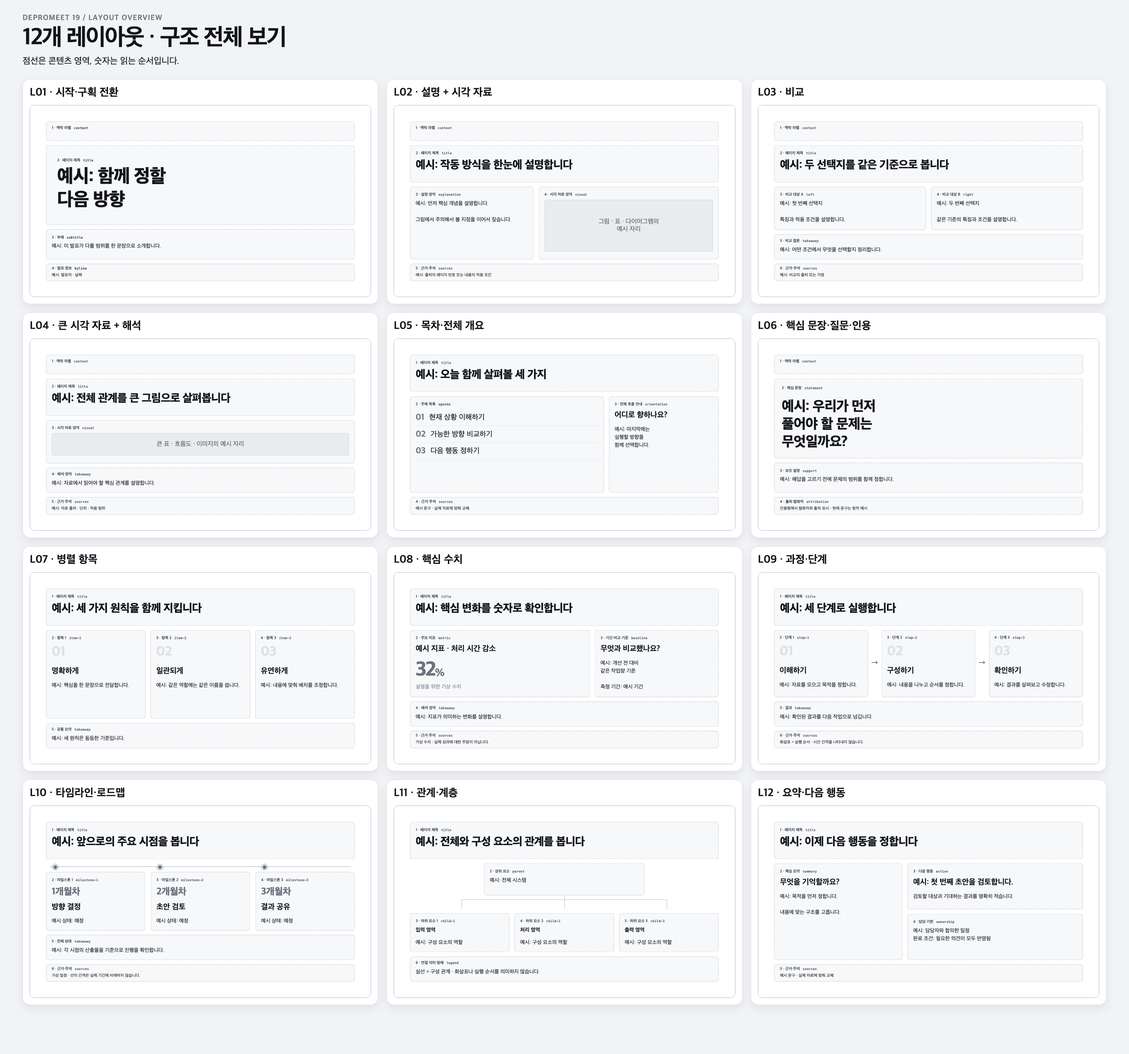
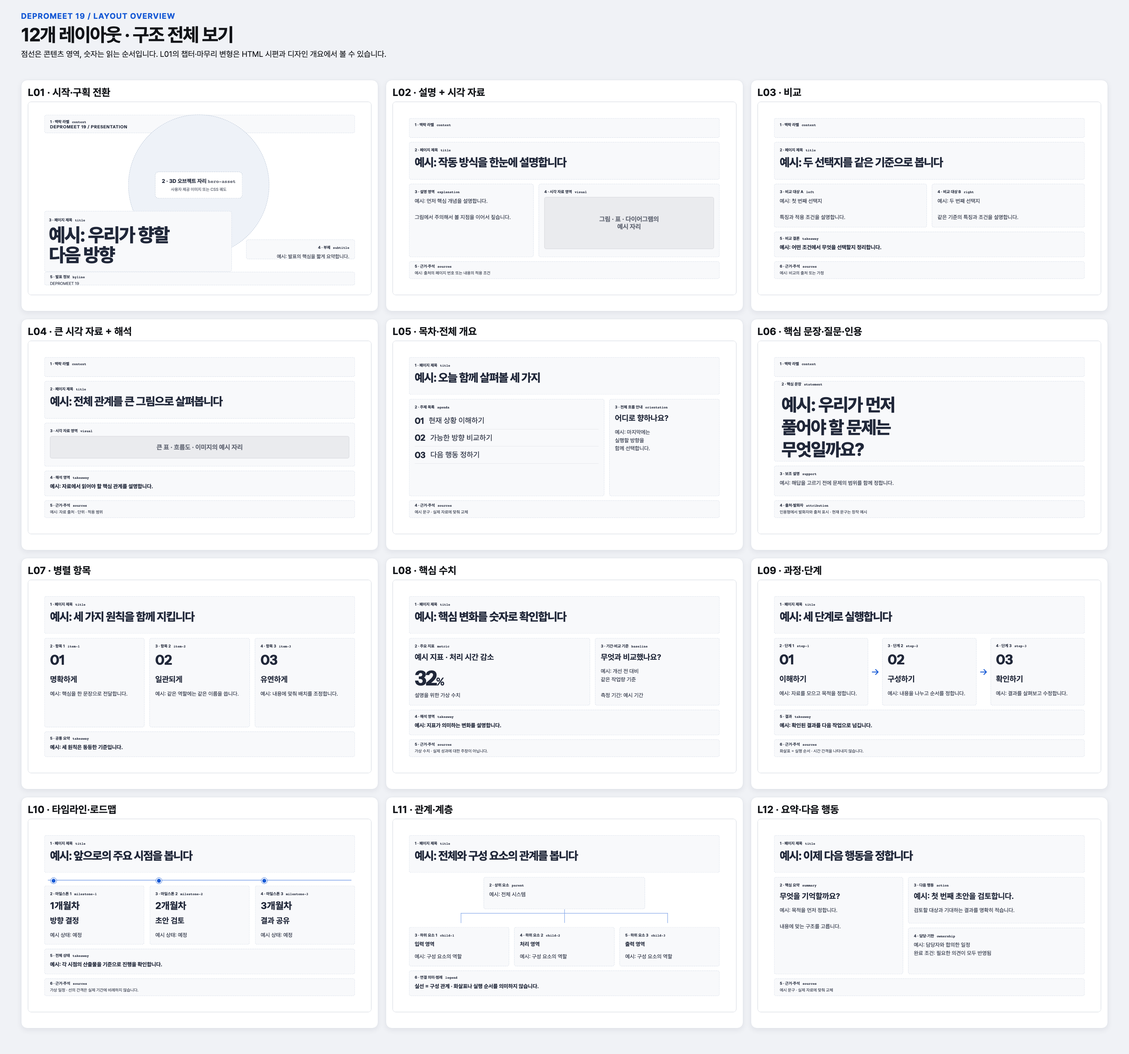
feat: 디프만 19기 슬라이드 프로필 재작성 (#7)
* feat: refresh 19th slide profile and bundle HTML to Figma

* fix: preserve visible content inside zero-box wrappers

* docs: restore updated slide profile overviews

* docs: show supplied 3D art in profile cover preview

* docs: clarify 3D preview asset scope

* feat: extend 19th profile gallery to 14 specimens

diff --git a/plugins/depromeet-plugin/skills/create-slides/profiles/depromeet_19/layout-skeleton.html b/plugins/depromeet-plugin/skills/create-slides/profiles/depromeet_19/layout-skeleton.html
@@ -8,9 +8,9 @@
 </head>
 <body>
   <header>
-    <div class="eyebrow">DEPROMEET 19 · 12 LAYOUT FAMILIES · 구조 검토용</div>
-    <h1>Depromeet 19 · 12개 레이아웃 구조</h1>
-    <p class="intro">발표 내용의 관계에 따라 고르는 12개 기본형입니다. 점선은 영역의 경계, 번호는 읽는 순서입니다. 문구·수치·일정은 모두 구조를 보여주기 위한 예시이며, 비율과 명칭은 함께 조정할 수 있습니다.</p>
+    <div class="eyebrow">DEPROMEET 19 · 12 LAYOUT FAMILIES · 디자인 검토용</div>
+    <h1>표지는 짙게, 본문은 밝게</h1>
+    <p class="intro">B안의 중앙 오브젝트 표지를 기준으로 한 12개 기본형과 표지·챕터·마무리 변형입니다. 전환 장면은 별자리와 짙은 남색, 설명과 도표는 흰색을 사용합니다. 문구와 수치는 구조를 보여주기 위한 예시이며, 점선과 영역 이름은 검토용으로만 표시합니다.</p>
 <nav aria-label="레이아웃 목록"><a href="#L01" data-pick="0">L01 · 시작·구획 전환</a><a href="#L02" data-pick="1">L02 · 설명 + 시각 자료</a><a href="#L03" data-pick="2">L03 · 비교</a><a href="#L04" data-pick="3">L04 · 큰 시각 자료 + 해석</a><a href="#L05" data-pick="4">L05 · 목차·전체 개요</a><a href="#L06" data-pick="5">L06 · 핵심 문장·질문·인용</a><a href="#L07" data-pick="6">L07 · 병렬 항목</a><a href="#L08" data-pick="7">L08 · 핵심 수치</a><a href="#L09" data-pick="8">L09 · 과정·단계</a><a href="#L10" data-pick="9">L10 · 타임라인·로드맵</a><a href="#L11" data-pick="10">L11 · 관계·계층</a><a href="#L12" data-pick="11">L12 · 요약·다음 행동</a></nav><div class="controls"><button id="single" aria-pressed="true">한 장씩 보기</button><button id="all" aria-pressed="false">전체 보기</button><button id="prev" aria-label="이전 레이아웃">← 이전</button><span id="position" aria-live="polite"></span><button id="next" aria-label="다음 레이아웃">다음 →</button></div>
     <p class="review-note">이름과 배치를 확인한 뒤 대화에서 의견을 남겨주세요. 예: “L02의 설명 영역을 넓혀줘.” 모바일에서는 아래의 영역 설명을 함께 확인하고, 전체 비율은 가로 화면에서 확인하세요.</p>
     <noscript><p>레이아웃 축소 표시는 JavaScript가 필요합니다. JavaScript를 켜거나 데스크톱 브라우저에서 열어주세요. 영역 설명은 아래에서 읽을 수 있습니다.</p></noscript>
@@ -19,18 +19,43 @@
     <!-- Select only the needed layout families. Adapt regions to the actual brief. -->
     <section class="layout-card" id="L01" data-layout-id="L01" aria-labelledby="L01-heading">
       <div class="layout-heading"><h2 id="L01-heading">L01 · 시작·구획 전환</h2><span>1920 × 1080 · 16:9</span></div>
-      <p class="layout-description">발표의 주제와 맥락을 소개하는 구성입니다. 시선은 위에서 아래로 이동합니다.</p>
-      <div class="preview-window"><div class="layout-stage" aria-label="시작형 레이아웃 예시">
-        <div class="region context" data-region-id="context"><span class="region-label">1 · 맥락 라벨 <code>context</code></span></div>
-        <div class="region opener-title" data-region-id="title"><span class="region-label">2 · 페이지 제목 <code>title</code></span><p class="sample-title">예시: 함께 정할<br>다음 방향</p></div>
-        <div class="region subtitle" data-region-id="subtitle"><span class="region-label">3 · 부제 <code>subtitle</code></span><p>예시: 이 발표가 다룰 범위를 한 문장으로 소개합니다.</p></div>
-        <div class="region sources" data-region-id="byline"><span class="region-label">4 · 발표 정보 <code>byline</code></span><p>예시: 발표자 · 날짜</p></div>
+      <p class="layout-description">B안 표지는 중앙 3D 오브젝트와 왼쪽 아래 제목을 사용합니다. 챕터는 오브젝트를 오른쪽으로 옮기고, 마무리는 오브젝트 없이 결론에 집중합니다. 이미지가 제공되지 않으면 CSS 궤도 장식을 사용합니다.</p>
+      <div class="preview-window"><div class="layout-stage cover-stage" aria-label="B안 발표 표지 예시">
+        <div class="region context" data-region-id="context"><span class="region-label">1 · 맥락 라벨 <code>context</code></span><p>DEPROMEET 19 / PRESENTATION</p></div>
+        <div class="cover-halo" aria-hidden="true"></div>
+        <div class="mode-kicker" aria-hidden="true">ORBIT BEYOND BOUNDARIES</div>
+        <div class="hero-art" data-region-id="hero-asset" role="img" aria-label="사용자가 제공할 3D 오브젝트 자리. 이미지가 없으면 궤도 장식 사용"><span>2 · 3D 오브젝트 자리 <code>hero-asset</code><br><small>사용자 제공 이미지 또는 CSS 궤도</small></span></div>
+        <div class="title-shade" aria-hidden="true"></div>
+        <div class="region opener-title" data-region-id="title"><span class="region-label">3 · 페이지 제목 <code>title</code></span><p class="sample-title">예시: 우리가 향할<br>다음 방향</p></div>
+        <div class="region subtitle" data-region-id="subtitle"><span class="region-label">4 · 부제 <code>subtitle</code></span><p>예시: 발표의 핵심을 짧게 요약합니다.</p></div>
+        <div class="region sources" data-region-id="byline"><span class="region-label">5 · 발표 정보 <code>byline</code></span><p>DEPROMEET 19</p><span class="page-marker">00 / 14</span></div>
       </div></div>
+      <p class="specimen-label">같은 L01의 챕터 변형</p>
+      <div class="preview-window"><div class="layout-stage chapter-stage" aria-label="챕터 표지 예시">
+        <div class="region context" data-region-id="context"><span class="region-label">1 · 맥락 라벨 <code>context</code></span><p>DEPROMEET 19 / CHAPTER 01</p></div>
+        <div class="mode-kicker" aria-hidden="true">01 / DISCOVER</div>
+        <div class="hero-art" data-region-id="hero-asset" role="img" aria-label="오른쪽에 배치할 사용자 제공 3D 오브젝트 자리"><span>2 · 3D 오브젝트 자리 <code>hero-asset</code></span></div>
+        <div class="region opener-title" data-region-id="title"><span class="region-label">3 · 챕터 제목 <code>title</code></span><p class="sample-title">예시: 새로운 길을<br>발견하다.</p></div>
+        <div class="chapter-beam" aria-hidden="true"></div>
+        <div class="region subtitle" data-region-id="subtitle"><span class="region-label">4 · 부제 <code>subtitle</code></span><p>예시: 문제를 찾고, 함께 방향을 정합니다.</p></div>
+        <div class="region sources" data-region-id="byline"><span class="region-label">5 · 발표 정보 <code>byline</code></span><p>DEPROMEET 19</p><span class="page-marker">01 / 14</span></div>
+      </div></div>
+      <p class="specimen-label">같은 L01의 마무리 변형</p>
+      <div class="preview-window"><div class="layout-stage closing-stage" aria-label="마무리 페이지 예시">
+        <div class="region context" data-region-id="context"><span class="region-label">1 · 맥락 라벨 <code>context</code></span><p>DEPROMEET 19 / CLOSING</p></div>
+        <div class="closing-orbit" aria-hidden="true"></div>
+        <div class="mode-kicker" aria-hidden="true">KEEP MOVING</div>
+        <div class="region opener-title" data-region-id="title"><span class="region-label">2 · 마무리 문장 <code>title</code></span><p class="sample-title">예시: 다음 방향을<br>함께 만들어갑니다.</p></div>
+        <div class="region subtitle" data-region-id="subtitle"><span class="region-label">3 · 보조 문장 <code>subtitle</code></span><p>예시: 질문에서 시작해, 실험으로 이어갑니다.</p></div>
+        <div class="region sources" data-region-id="byline"><span class="region-label">4 · 발표 정보 <code>byline</code></span><p>DEPROMEET 19</p><span class="page-marker">13 / 14</span></div>
+      </div></div>
+      <p class="variant">챕터에서는 3D 오브젝트를 오른쪽으로 옮겨 제목을 왼쪽에 두고, 마무리에서는 오브젝트를 생략해 결론을 크게 표시합니다.</p>
       <dl class="legend">
         <div data-for-region="context"><dt>1 · 맥락 라벨 <code>context</code></dt><dd>상단 전체 너비. 행사나 발표의 큰 주제를 표시합니다.</dd></div>
-        <div data-for-region="title"><dt>2 · 페이지 제목 <code>title</code></dt><dd>중앙의 가장 큰 영역. 발표의 주제나 핵심 메시지를 담습니다.</dd></div>
-        <div data-for-region="subtitle"><dt>3 · 부제 <code>subtitle</code></dt><dd>제목 아래. 목적이나 범위를 짧게 설명합니다.</dd></div>
-        <div data-for-region="byline"><dt>4 · 발표 정보 <code>byline</code></dt><dd>하단. 발표자와 날짜를 담으며 불필요하면 생략합니다.</dd></div>
+        <div data-for-region="hero-asset"><dt>2 · 오브젝트 <code>hero-asset</code></dt><dd>표지는 중앙, 챕터는 오른쪽. 사용자가 제공한 이미지와 사용 범위를 확인한 경우에만 적용합니다. 이미지가 없으면 CSS 장식을 사용합니다.</dd></div>
+        <div data-for-region="title"><dt>3 · 페이지 제목 <code>title</code></dt><dd>표지에서는 왼쪽 아래, 챕터에서는 왼쪽 중앙. 짧고 크게 표시합니다.</dd></div>
+        <div data-for-region="subtitle"><dt>4 · 부제 <code>subtitle</code></dt><dd>제목을 보조하는 한 문장. 본문과 충돌하면 생략할 수 있습니다.</dd></div>
+        <div data-for-region="byline"><dt>5 · 발표 정보 <code>byline</code></dt><dd>하단. 발표자와 날짜를 담으며 불필요하면 생략합니다.</dd></div>
       </dl>
     </section>
     <section class="layout-card" id="L02" data-layout-id="L02" aria-labelledby="L02-heading">
@@ -107,7 +132,7 @@
     const cards=[...document.querySelectorAll('.layout-card')];
     const links=[...document.querySelectorAll('[data-pick]')];
     let selected=Math.max(0,cards.findIndex(c=>c.id===location.hash.slice(1))), all=false;
-    function fitPreviews(){document.querySelectorAll('.preview-window').forEach(p=>{if(p.clientWidth)p.querySelector('.layout-stage').style.transform=`scale(${p.clientWidth/1920})`;});}
+    function fitPreviews(){document.querySelectorAll('.preview-window').forEach(p=>{if(p.clientWidth)p.querySelectorAll('.layout-stage').forEach(s=>s.style.transform=`scale(${p.clientWidth/1920})`);});}
     function render(){
       cards.forEach((c,i)=>c.hidden=!all&&i!==selected);
       links.forEach((a,i)=>a.setAttribute('aria-current',String(i===selected)));

diff --git a/plugins/depromeet-plugin/skills/create-slides/profiles/depromeet_19/style.css b/plugins/depromeet-plugin/skills/create-slides/profiles/depromeet_19/style.css
@@ -141,10 +141,84 @@
 .display-latin { font-family: "Space Grotesk", "Instrument Sans", sans-serif; }
 .slogan-latin { font-family: "Space Mono", monospace; font-style: italic; }
 
-/* The opening specimen shows the profile identity; other families use light pages. */
-#L01 .layout-stage { background: var(--blue-500); }
-#L01 .region { color: var(--white); background: transparent; border-color: var(--white-030); }
-#L01 .region-label, #L01 .region-label code { color: var(--white); }
-#L01 .sources { background: var(--white-010); }
+/* Banner-inspired presentation modes. The gradients and stars are CSS recreations. */
+:root {
+  --space-cover: radial-gradient(ellipse 76% 82% at 50% 81%, #1659d5aa, transparent 75%), linear-gradient(180deg, #0c0e15 0%, #0f1b36 64%, #092455 100%);
+  --space-chapter: radial-gradient(ellipse 70% 42% at 59% 101%, #1459d5b8 0%, #0d377580 40%, transparent 100%), radial-gradient(ellipse 65% 72% at 86% 24%, #134ab070 0%, transparent 70%), linear-gradient(180deg, #0f1422 0%, #0f1b36 56%, #06111f 100%);
+  --content-panel: #F2F4F8;
+  --content-line: #DCE3ED;
+}
+.layout-stage { color: var(--blue-800); background: var(--white); }
+.region { background: var(--content-panel); border-color: var(--blue-200); }
+.region .sample-title { color: var(--blue-800); font-weight: 780; letter-spacing: -.045em; }
+.context, .heading, .takeaway, .sources { background: transparent; border-color: transparent; }
+.context { border-bottom: 1px solid var(--content-line); border-radius: 0; }
+.context .region-label { color: var(--blue-500); }
+.sources { border-top: 1px solid var(--content-line); border-radius: 0; }
+.sources p { color: var(--gray-700); }
+.takeaway p { color: var(--blue-800); font-weight: 750; }
+.visual-placeholder { color: var(--blue-800); background: linear-gradient(135deg, #DCE9FF, #ABC8FA); border-color: var(--blue-200); font-weight: 700; }
+.item-number { color: var(--blue-500); }
+#L05 .explanation { background: #E8F0FF; }
+#L07 .body-row > .region { border-top: 8px solid var(--blue-500); }
+#L08 .layout-stage { background: radial-gradient(circle at 80% 15%, #D9E7FF 0%, transparent 42%), linear-gradient(145deg, #F9FBFF, #E8F0FF); }
+#L08 .body-row > .region:first-child { background: #E8F0FF; }
+#L12 .action-stack .region:first-child { color: var(--white); background: var(--blue-500); border-color: var(--blue-500); }
+#L12 .action-stack .region:first-child .region-label,
+#L12 .action-stack .region:first-child .region-label code { color: var(--white); }
+
+/* L01 cover, chapter, and L06 statement share the dark presentation atmosphere. */
+#L01 .layout-stage, #L06 .layout-stage { color: var(--white); background: var(--space-chapter); }
+#L01 .cover-stage { display: block; background: var(--space-cover); }
+#L01 .chapter-stage { display: block; }
+#L01 .layout-stage::before, #L06 .layout-stage::before { content: ""; position: absolute; z-index: 0; inset: 0; opacity: .37; background-image: radial-gradient(circle, #D8EEFF 0 1px, transparent 1.6px), radial-gradient(circle, #64B6FF 0 1px, transparent 1.5px), radial-gradient(circle, #EFF9FF 0 .65px, transparent 1.3px); background-size: 139px 139px, 197px 173px, 83px 127px; background-position: 19px 11px, 81px 76px, 37px 46px; mask-image: linear-gradient(180deg, #000 0%, #000b 75%, transparent 100%); }
+#L01 .layout-stage::after, #L06 .layout-stage::after { content: ""; position: absolute; z-index: 0; width: 85%; height: 31%; left: 7%; bottom: -19%; border-radius: 50%; background: #0C5FEB; filter: blur(85px); opacity: .5; }
+#L01 .layout-stage > * { position: absolute; z-index: 2; }
+#L01 .mode-kicker { color: #9ACAEF; font: 700 25px "Instrument Sans", "Pretendard", sans-serif; letter-spacing: .14em; }
+#L01 .cover-stage .mode-kicker { top: 259px; left: 90px; }
+#L01 .chapter-stage .mode-kicker { top: 268px; left: 90px; }
+#L01 .closing-stage .mode-kicker { top: 268px; left: 90px; }
+#L01 .region, #L06 .region { color: var(--white); background: transparent; border-color: var(--white-030); }
+#L01 .region-label, #L06 .region-label,
+#L01 .region-label code, #L06 .region-label code { color: #C7E1FF; }
+#L01 .sample-title, #L06 .sample-title { color: var(--white); }
+#L01 .context { top: 72px; left: 90px; right: 90px; height: 102px; border-left: 0; border-right: 0; border-top: 0; border-radius: 0; }
+#L01 .context p { font: 700 24px "Instrument Sans", "Pretendard", sans-serif; letter-spacing: .08em; }
+#L01 .sources { left: 90px; right: 90px; bottom: 54px; height: 75px; border-bottom: 0; border-left: 0; border-right: 0; }
+#L01 .sources p { color: #D0E4FF; }
+#L01 .page-marker { position: absolute; top: 21px; right: 30px; color: #B5D1F3; font: 700 24px "Instrument Sans", "Pretendard", sans-serif; letter-spacing: .08em; }
+#L01 .cover-stage .sources { z-index: 4; }
+#L01 .cover-stage .cover-halo { top: 112px; left: 422px; width: 1076px; height: 1076px; border: 2px solid #79BEFF55; border-radius: 50%; box-shadow: 0 0 0 115px #2480FF08, 0 0 80px #478DFD20; }
+#L01 .cover-stage .title-shade { z-index: 3; inset: 52% 0 0; background: linear-gradient(180deg, transparent 0%, #081831C9 38%, #07152AE8 100%); }
+#L01 .cover-stage .opener-title { z-index: 4; top: 610px; left: 90px; width: 1050px; height: 340px; padding: 20px 24px; }
+#L01 .cover-stage .opener-title .sample-title { font-size: 106px; line-height: 1.06; }
+#L01 .cover-stage .subtitle { z-index: 4; right: 90px; bottom: 200px; width: 610px; height: 110px; text-align: right; }
+#L01 .cover-stage .subtitle p { font-size: 28px; }
+#L01 .chapter-stage .opener-title { z-index: 4; top: 320px; left: 90px; width: 900px; height: 370px; padding: 40px; }
+#L01 .chapter-stage .opener-title .sample-title { font-size: 106px; line-height: 1.08; }
+#L01 .chapter-stage .subtitle { left: 90px; bottom: 180px; width: 810px; height: 120px; }
+#L01 .chapter-stage .chapter-beam { left: 90px; right: 998px; bottom: 302px; height: 2px; background: linear-gradient(90deg, #72C8FF, transparent); box-shadow: 0 0 20px #2DA8FF; }
+#L01 .hero-art { display: flex; align-items: center; justify-content: center; border: 2px solid #74B8FF88; border-radius: 50%; background: radial-gradient(circle at 50% 58%, #2979E688, #1247AA36 42%, transparent 71%); box-shadow: 0 0 0 75px #2480FF08, 0 0 90px #478DFD33; }
+#L01 .hero-art::before { content: "✦"; position: absolute; top: 11%; right: 20%; color: #D6F2FF; font-size: 145px; text-shadow: 0 0 45px #62BDFF; }
+#L01 .hero-art span { display: block; max-width: 500px; padding: 28px 36px; border: 2px dashed #A8D3FFAA; border-radius: 20px; background: #071B3CBB; color: var(--white); text-align: center; font-size: 30px; font-weight: 750; line-height: 1.5; }
+#L01 .hero-art code { color: #B8DBFF; font-size: 26px; }
+#L01 .hero-art small { color: #A9CDFB; font-size: 23px; font-weight: 500; }
+#L01 .cover-stage .hero-art { top: 70px; left: 560px; width: 790px; height: 790px; }
+#L01 .chapter-stage .hero-art { top: 120px; right: 10px; width: 760px; height: 760px; }
+#L01 .has-asset .hero-art { border: 0; background: none; box-shadow: none; }
+#L01 .has-asset .hero-art::before, #L01 .has-asset .hero-art span { display: none; }
+#L01 .has-asset .hero-art img { width: 100%; height: 100%; object-fit: contain; filter: drop-shadow(0 13px 45px #1D8DFF8A); }
+#L01 .cover-stage.has-asset .hero-art { top: -43px; left: 460px; width: 1000px; height: 1000px; }
+#L01 .chapter-stage.has-asset .hero-art { top: -54px; right: -58px; width: 1130px; height: 1130px; }
+#L01 .closing-stage .opener-title { z-index: 4; top: 335px; left: 90px; width: 1170px; height: 340px; padding: 40px; }
+#L01 .closing-stage .opener-title .sample-title { font-size: 106px; line-height: 1.08; }
+#L01 .closing-stage .subtitle { left: 90px; bottom: 180px; width: 1050px; height: 120px; }
+#L01 .closing-stage .closing-orbit { top: 162px; right: 70px; width: 800px; height: 800px; border: 2px solid #72B6FF55; border-radius: 50%; box-shadow: 0 0 0 96px #2480FF08, 0 0 80px #478DFD20; }
+#L01 .closing-stage .closing-orbit::after { content: "✦"; position: absolute; top: 12%; right: 18%; color: #C8E9FF; font-size: 150px; text-shadow: 0 0 50px #45AAFF; }
+#L06 .statement { background: transparent; border-color: transparent; }
+#L06 .statement .sample-title { font-size: 100px; }
+#L06 .statement::after { content: ""; position: absolute; left: 40px; bottom: 54px; width: 600px; height: 2px; background: #6CC4FF; box-shadow: 0 0 18px #63C4FF; }
+#L06 .sources p { color: #C8DCFA; }
+.specimen-label { margin: 18px 0 8px; color: var(--blue-800); font-size: 15px; font-weight: 750; }
 .action-stack { flex: 3; }
 .metric-number, .item-number, .agenda-row b { font-family: "Instrument Sans", "Pretendard", sans-serif; }

diff --git a/plugins/depromeet-plugin/skills/create-slides/profiles/depromeet_19/PROFILE.md b/plugins/depromeet-plugin/skills/create-slides/profiles/depromeet_19/PROFILE.md
@@ -1,12 +1,15 @@
 # depromeet_19 slide profile
 
 This is the bundled visual profile for Depromeet 19th-generation presentations.
-It adapts the supplied 19th-generation design-guide PDFs for browser-based
-slides. The source PDFs and font binaries are not distributed with this skill.
-The guide defines colors and type styles; slide geometry below is an adaptation
-for this skill, not a rule quoted from the guide. The 12 layout families adapt
-the earlier ziweek slide-layouts-12 structural gallery. That repository is not
-a runtime dependency; the profile bundles its own Depromeet-styled specimens.
+It combines the supplied design guide's palette and typography with a
+banner-inspired slide treatment: a dark, central-object opening, dark chapter
+and statement pages, and white content pages. The star field and gradients are
+CSS adaptations, not official design-guide requirements. The source PDFs,
+source banner, reusable 3D image file, and font binaries are not distributed
+with this skill. The design overview includes the user-supplied 3D object in
+its cover and chapter previews only.
+The 12 layout families are structural choices; their example copy is not deck
+content or a factual claim.
 
 ## Files and ownership
 
@@ -14,25 +17,24 @@ a runtime dependency; the profile bundles its own Depromeet-styled specimens.
   stage geometry, spacing, component appearance, and review-only styling.
 - [layout-skeleton.html](layout-skeleton.html) is the browser-visible set of
   layout specimens and region names. It loads `style.css` beside itself.
-- [layout-overview.png](layout-overview.png) shows all 12 structural families
-  together; [design-overview.png](design-overview.png) shows the same families
-  with this profile's visual design and illustrative copy.
-- This file defines when to use those values and how to adapt the source guide
-  to a slide. Do not add profile-specific defaults to the common workflow.
+- [design-overview.png](design-overview.png) shows 14 page specimens: cover,
+  chapter, 11 content families, and closing. It includes the current colors,
+  typography, star field, and rasterized 3D examples.
+- [layout-overview.png](layout-overview.png) shows the 12 layout families'
+  content regions and reading order. Both images are quick references rendered
+  from the HTML specimens, not separate layout specifications.
+- This file defines when to use each visual mode, how to place an optional
+  3D object, and how to adapt the source guide to slides. Do not add
+  profile-specific defaults to the common workflow.
 - [FONTS.md](FONTS.md) identifies the original font distributions and the
   required license, acquisition, and fallback handling for each deck.
 
-The overview images are quick references, not page plans or final slide assets.
-Their wording and numbers are illustrative. Use the HTML skeleton to inspect
-individual regions and confirm the selected layouts for each presentation.
-
-### Layout structure
-
-![All 12 layout families with region boundaries](layout-overview.png)
-
-### Depromeet 19 design example
-
-![The same 12 layouts with Depromeet 19 colors and type](design-overview.png)
+Use the HTML skeleton as the browser-visible source of truth for all 12
+families. L01 shows cover, chapter, and closing specimens. Its CSS orbit is an
+asset-free placeholder; the 3D examples in the overview PNG do not provide a
+reusable image file or permission to reuse the original asset. For a deck with
+an authorized image, replace the `hero-asset` placeholder with an image and
+add `.has-asset` to that stage. The closing specimen omits the image.
 
 When preparing a deck, copy both the skeleton and stylesheet into its output
 directory. Keep their relative link working. Select only the layouts needed,
@@ -48,15 +50,20 @@ PDF: default black/white, seven blues, eleven cool grays, four transparency
 styles, and three gradients. The PDF heading says 36 registered styles, while
 its visible tables enumerate 27. Do not invent the other nine.
 
-- Use `--blue-500` for Depromeet identity and selected emphasis.
-- Use `--blue-800` or `--gray-950` for strong text and dark backgrounds.
-- Use white and `--gray-50`/`--gray-100` for light pages; use `--gray-200`
-  for quiet cards and `--gray-700` for secondary text.
-- Blue pages introduce or divide sections. Light pages carry explanations,
-  diagrams, and numbers. Dark pages can carry screenshots or evidence.
-- The three guide gradients are available as tokens. Use one only when it
-  supports the page hierarchy and keeps text readable; a gradient is not
-  required on every cover.
+- **Cover (`L01`)**: use `--space-cover`, a centered supplied 3D object when
+  authorized, and a large lower-left title. This is the profile's B composition.
+- **Chapter (`L01`)**: use `--space-chapter`, move an available 3D object right,
+  and keep the chapter title left. The closing specimen reuses the dark
+  background without the object so the final statement remains primary.
+- **Content (`L02`–`L05`, `L07`, `L09`–`L12`)**: white is the default stage.
+  Use `--blue-800` for titles, `--blue-500` for selected emphasis, and
+  `--content-panel` for quiet cards. Keep the space texture and 3D image off
+  these information-dense pages. `L08` may use the pale blue tint shown in
+  the specimen when a key number needs stronger separation.
+- **Statement (`L06`)**: reuse the dark chapter background with no object.
+  One sentence carries the page; supporting copy stays secondary.
+- Keep small labels, dividers, and page numbers consistent across modes.
+  The other guide gradients remain available as tokens, not mandatory fills.
 
 Use the palette roles in the CSS instead of pasting hex values into a deck.
 Check contrast in the rendered deck, especially for small labels and muted text.
@@ -76,9 +83,8 @@ Check contrast in the rendered deck, especially for small labels and muted text.
   Verify the rendered font, because a fallback changes line wrapping.
 
 The PDF type sizes describe a design-system specimen, not a 1920×1080 slide.
-The specimen CSS scales important roles for viewing at presentation distance:
-opening title 106 px, standard title 64 px, body about 30 px, and region labels
-about 22 px.
+The HTML specimens use a 106 px opening title, a 64 px standard title, body
+copy around 30 px, and review-only region labels around 22 px.
 Keep Korean line breaks at meaningful phrases. Test the actual deck at full
 presentation size and a smaller desktop viewport.
 
@@ -87,10 +93,14 @@ presentation size and a smaller desktop viewport.
 The profile uses a 1920×1080, 16:9 stage. Start with a 90 px stage margin,
 24–30 px region gaps, and broad text/image regions. These measurements are
 slide-specific choices. Change them in this profile when updating its look.
+The dark specimens use three layers of small stars, a low blue glow, and thin
+header and footer rules. Keep the cover halo and lower title shade, the chapter
+light beam, and the closing orbit when adapting those modes. Kicker text and
+page counters in the specimens are examples; replace them for each deck.
 
 | Layout ID | Use | Main regions |
 | --- | --- | --- |
-| `L01` | Opening or section divider | context, title, subtitle, byline |
+| `L01` | Opening, section divider, or closing | context, hero-asset, title, subtitle, byline |
 | `L02` | Explanation with visual | context, title, explanation, visual, sources |
 | `L03` | Comparison | context, title, left, right, takeaway, sources |
 | `L04` | Large visual with interpretation | context, title, visual, takeaway, sources |
@@ -103,20 +113,24 @@ slide-specific choices. Change them in this profile when updating its look.
 | `L11` | Relationship or hierarchy | title, parent, child-1 through child-3, legend |
 | `L12` | Summary and next action | title, summary, action, ownership, sources |
 
-The former five specimens map to these families: cover and divider use `L01`,
-information cards use `L07` or `L08`, explanation with visual uses `L02`, and
-evidence or example uses `L04` or `L07`. These are starting points; do not force
-content into a mismatched family. Use only layouts needed for the current
-narrative. Preserve the region names and IDs in the confirmed skeleton and page
-plan. Adapt proportions when real content needs room; review a material
-geometry change before final HTML.
+Use only layouts needed for the current narrative. Preserve region names and
+IDs in the confirmed skeleton and page plan. For a cover without a supplied
+image, mark `hero-asset` as intentionally empty in the page plan and use the
+CSS orbit fallback. For a chapter or closing page where the image is omitted,
+keep the title and byline regions; adapt proportions when real copy needs
+room and review material geometry changes before final HTML.
 
 ## Content and assets
 
 - Preserve source conditions, dates, units, denominators, and uncertainty.
 - Rebuild a chart only from verified values and label its units.
-- Use neutral media placeholders until the deck has authorized assets.
+- The 3D banner object is not bundled. When the user supplies an image for a
+  deck, confirm that its use and redistribution in the deliverable are within
+  the intended scope. Record its source path, crop, and alt text in the page
+  plan. Copy it only into that deck's assets. If unavailable or unsuitable,
+  explicitly tell the user that the CSS orbit fallback is being used.
+- Use neutral media placeholders for all other unconfirmed images.
 - Keep source images at a readable aspect ratio and add meaningful alt text.
-- Do not use source-guide screenshots, logos, or private material as deck assets
-  merely because they were supplied for style review.
+- Do not treat a source-guide screenshot, logo, or private file supplied for
+  style review as an automatically distributable asset.
 - Use no motion by default; any added motion must respect reduced motion.

diff --git a/README.md b/README.md
@@ -34,7 +34,7 @@ Depromeet 팀이 Claude Code와 Codex에서 함께 사용할 플러그인을 관
 대체 폰트 사용 사실을 알립니다. 플러그인 자체에는 폰트 파일을 넣지
 않습니다.
 
-발표 목적과 자료를 바탕으로 선택한 프로필의 HTML 슬라이드를 만듭니다. 기본 프로필은 `depromeet_19`이며, 19기 디자인 가이드의 색상·서체와 12가지 공통 레이아웃 구조를 슬라이드에 맞게 적용합니다. 프로필이 스타일과 레이아웃을 소유하고, 공통 스킬은 검토·제작 절차를 담당합니다. 필요한 레이아웃 스켈레톤과 모든 페이지의 실제 문구·배치를 차례로 확인한 뒤 최종 `index.html`을 생성합니다.
+발표 목적과 자료를 바탕으로 선택한 프로필의 HTML 슬라이드를 만듭니다. 기본 프로필 `depromeet_19`는 중앙 오브젝트의 짙은 남색 표지와 챕터, 흰색 본문, 어두운 핵심 문장 페이지를 사용합니다. 19기 디자인 가이드의 색상·서체와 12가지 공통 레이아웃 구조를 적용합니다. 개요 PNG에는 3D 표지 예시가 있지만 재사용 가능한 원본 이미지 파일은 포함되지 않습니다. 실제 덱에는 사용자가 이미지를 제공하고 사용 범위를 확인한 경우에만 적용하며, 이미지가 없으면 CSS 궤도 장식을 사용한다고 알립니다. 필요한 레이아웃 스켈레톤과 모든 페이지의 실제 문구·배치를 차례로 확인한 뒤 최종 `index.html`을 생성합니다.
 
 ```text
 Use create-slides to turn these notes into a Depromeet-style HTML presentation.

diff --git a/plugins/depromeet-plugin/skills/create-slides/profiles/INDEX.md b/plugins/depromeet-plugin/skills/create-slides/profiles/INDEX.md
@@ -1,6 +1,7 @@
 # Slide profiles
 
-The default bundled profile is [depromeet_19](depromeet_19/PROFILE.md).
+The default bundled profile is [depromeet_19](depromeet_19/PROFILE.md): a dark
+central-object cover and chapter treatment with white content pages.
 Choose a profile before making a layout skeleton or page plan. A profile owns
 its visual rules, layout specimens, CSS, and asset policy. Common workflow
 documents describe the review and delivery process only.
